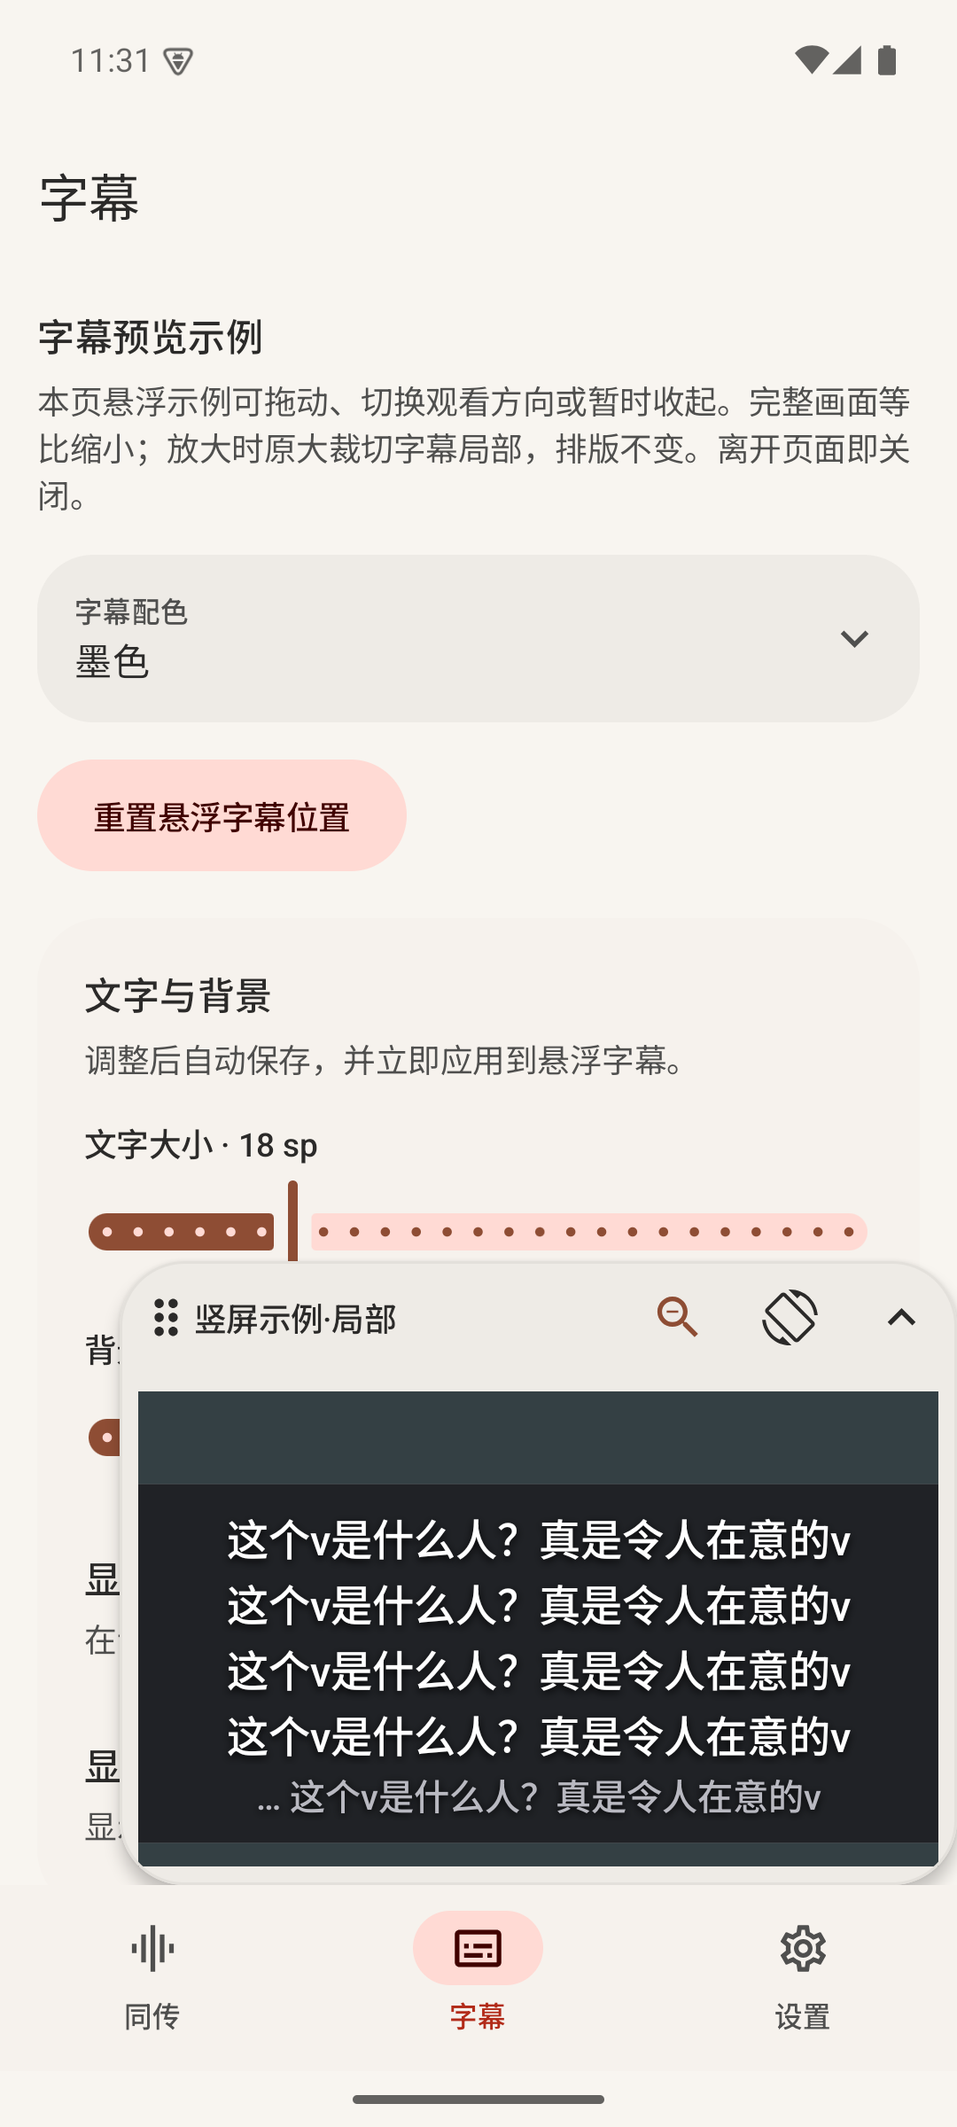
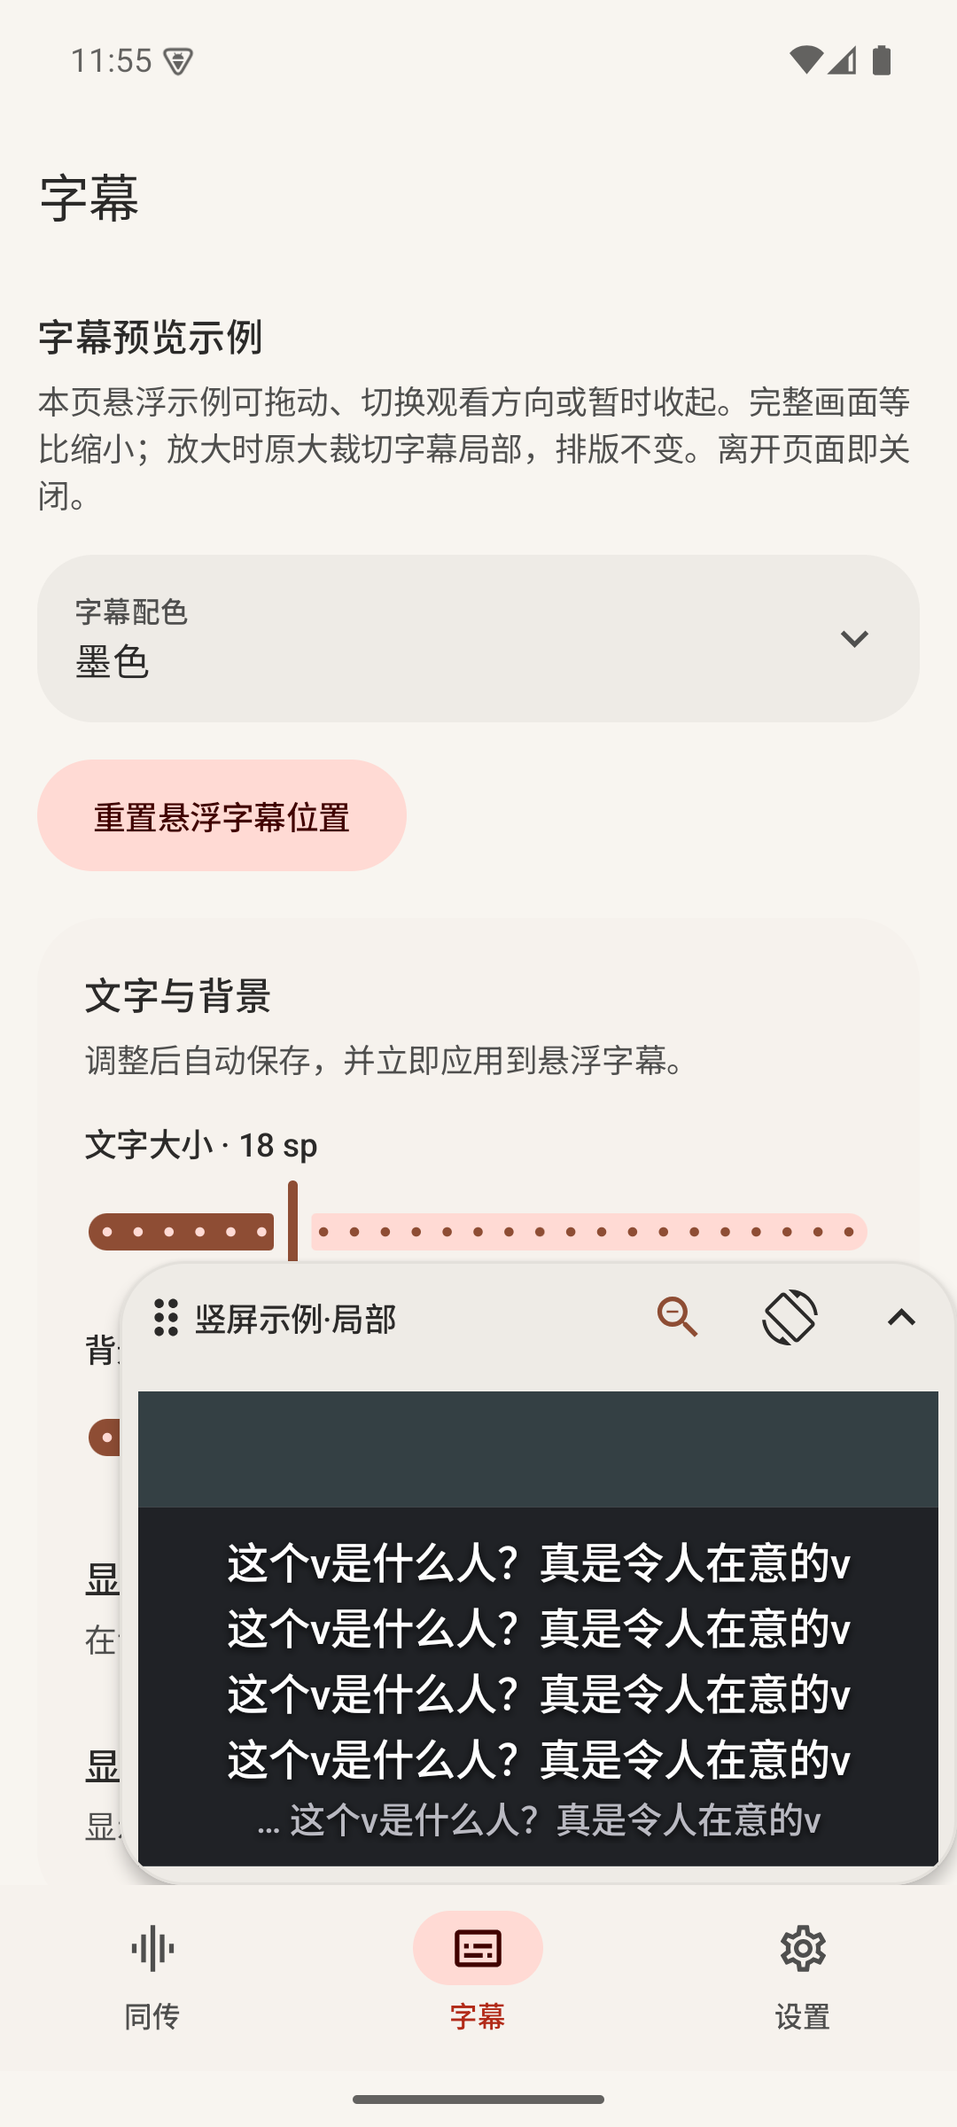
修复: 清除字幕贴底透明占位并保留基线防抖

Changed region(s): [[0.1528, 0.6875, 0.9778, 0.875], [0.8861, 0.0, 0.9167, 0.0312], [0.1222, 0.0, 0.1528, 0.0312]]

diff --git a/app/src/androidTest/java/io/github/korenkrita/simulsub/CaptionDraftSlotDeviceTest.kt b/app/src/androidTest/java/io/github/korenkrita/simulsub/CaptionDraftSlotDeviceTest.kt
@@ -17,6 +17,38 @@ import org.junit.runner.RunWith
 /** 只测真实原生布局和像素，不启动服务、不请求悬浮窗权限、不修改用户数据。 */
 @RunWith(AndroidJUnit4::class)
 class CaptionDraftSlotDeviceTest {
+    /** 拖到底时临时字幕黑底必须抵达窗口末行，不能留下参与贴边计算的透明尾部。 */
+    @Test fun draftBackgroundReachesBottomWithoutMovingFinalBaseline() = onMain {
+        for (font in listOf(13f, 36f)) for (original in listOf(false, true)) {
+            val view = overlay(original)
+            val width = px(view, 300)
+            val screenHeight = px(view, 700)
+            view.applyStyle(font, 0.8f)
+            val final = CaptionOverlayView.Line("正式字幕保持原位", null, true)
+            view.setLines(listOf(final), null)
+            layout(view, width)
+            val anchor = CaptionBaselineAnchor()
+            val top = anchor.position(screenHeight, view.finalLineBaselinePx(), screenHeight, view.measureCaptionBlockHeight(width))
+            val baseline = top + view.finalLineBaselinePx()
+            for (draft in listOf("短草稿", "更新中的临时字幕".repeat(40), "", "再出现")) {
+                view.setLines(if (draft.isEmpty()) listOf(final) else listOf(final,
+                    CaptionOverlayView.Line(draft, if (original) "仮字幕" else null, false)), null)
+                layout(view, width)
+                assertEquals("临时字幕出现消失不能移动正式末行", baseline, top + view.finalLineBaselinePx())
+                assertEquals("拖到底的窗口不能再被多余透明空间挡住", screenHeight, top + view.height)
+                val bitmap = Bitmap.createBitmap(width, view.height, Bitmap.Config.ARGB_8888)
+                view.draw(Canvas(bitmap))
+                if (draft.isNotEmpty()) {
+                    assertTrue("有临时字幕时黑底必须抵达可用区域底部：$font/$original",
+                        Color.alpha(bitmap.getPixel(width / 2, bitmap.height - 1)) > 0)
+                } else {
+                    assertEquals("草稿消失只收回背景，不移动定稿", 0,
+                        Color.alpha(bitmap.getPixel(width / 2, bitmap.height - 1)))
+                }
+            }
+        }
+    }
+
     /** 用真实TextView的最后一行基线核对宿主定位，草稿、诊断与正式内容换行都不能重设锚点。 */
     @Test fun actualFinalBaselineRemainsFixedAcrossTransientAndFinalUpdates() = onMain {
         for (fixed in listOf(false, true)) for (original in listOf(false, true)) {
@@ -165,7 +197,7 @@ class CaptionDraftSlotDeviceTest {
                     val slot = view.getChildAt(1)
                     val geometry = listOf(view.height, card.top, card.bottom, slot.top, slot.bottom)
                     if (expected == null) expected = geometry else assertEquals("草稿生命周期不应推动黑框：$landscape/$fixed/$original/$mode", expected, geometry)
-                    assertEquals(card.bottom, slot.top)
+                    assertEquals(card.bottom + (slot.layoutParams as LinearLayout.LayoutParams).topMargin, slot.top)
                     assertEquals(view.measureCardHeight(width) + view.draftSlotHeightPx(), view.height)
                     assertEquals(view.measureCaptionBlockHeight(width), view.height)
                     assertNull("草稿区不得继承正式背景", slot.background)
@@ -241,7 +273,8 @@ class CaptionDraftSlotDeviceTest {
             assertEquals("原文不再独占额外一行", 0, source.height)
             assertTrue("字号=$font，宽=$widthDp，高=${draft.height}，排版高=${draft.layout.height}，草稿=${draft.text}", draft.text.isNotEmpty() && draft.text.endsWith("尾") && ("很长的草稿。".repeat(100) + "最新结尾").endsWith(draft.text.toString()))
             assertEquals("临时字幕最多一行", 1, draft.lineCount)
-            assertTrue("临时字幕须贴近正文，不能叠加底部留白", slot.translationY < 0)
+            assertTrue("临时字幕共用正文留白，不能留下透明尾部", (slot.layoutParams as LinearLayout.LayoutParams).topMargin < 0)
+            assertEquals(0f, slot.translationY)
             assertTrue("草稿必须整行容纳在透明区域内", draft.layout.height <= draft.height)
             assertTrue(draft.bottom <= slot.height)
             assertEquals(View.VISIBLE, draft.visibility)
@@ -265,7 +298,7 @@ class CaptionDraftSlotDeviceTest {
             assertEquals(card.left, slot.left)
             assertEquals(card.right, slot.right)
             assertEquals(cardWidth, slot.width)
-            assertEquals(card.bottom, slot.top)
+            assertEquals(card.bottom + (slot.layoutParams as LinearLayout.LayoutParams).topMargin, slot.top)
             if (above) assertTrue(toolbar.bottom <= card.top) else assertTrue(toolbar.top >= slot.bottom)
             assertEquals(view.measureCaptionBlockHeight(cardWidth) + view.toolbarHeightPx(), view.height)
         }

diff --git a/app/src/androidTest/java/io/github/korenkrita/simulsub/CaptionWindowAnchorDeviceTest.kt b/app/src/androidTest/java/io/github/korenkrita/simulsub/CaptionWindowAnchorDeviceTest.kt
@@ -17,6 +17,30 @@ import java.util.concurrent.CopyOnWriteArrayList
 
 /** 使用真实系统悬浮窗口逐帧核对基线；不启动录音、不调用翻译、不改变业务配置。 */
 class CaptionWindowAnchorDeviceTest {
+    /** 真实前台窗口隐藏系统栏后，字幕也必须到屏幕底部，且草稿与工具栏不能恢复抖动。 */
+    @Test fun immersiveOverlayReachesScreenBottomWithoutJitter() {
+        val context = InstrumentationRegistry.getInstrumentation().targetContext
+        val wm = context.getSystemService(WindowManager::class.java)
+        androidx.test.core.app.ActivityScenario.launch(androidx.activity.ComponentActivity::class.java).use { scenario ->
+            try {
+                scenario.onActivity { activity ->
+                    activity.window.decorView.setBackgroundColor(0xFF2D3436.toInt())
+                    activity.window.insetsController!!.hide(android.view.WindowInsets.Type.systemBars())
+                }
+                val end = System.currentTimeMillis() + 5_000
+                while (wm.currentWindowMetrics.windowInsets.isVisible(android.view.WindowInsets.Type.systemBars())) {
+                    assertTrue("前台测试窗口必须实际进入沉浸模式", System.currentTimeMillis() < end)
+                    Thread.sleep(16)
+                }
+                assertEquals("隐藏系统栏后可用区域必须抵达物理屏幕底边",
+                    wm.currentWindowMetrics.bounds.bottom, captionWindowArea(wm.currentWindowMetrics).bottom)
+                realBottomOverlayNeverDrawsShiftedFinalBaseline()
+            } finally {
+                scenario.onActivity { it.window.insetsController!!.show(android.view.WindowInsets.Type.systemBars()) }
+            }
+        }
+    }
+
     /** 底部放置后只更新字幕，生产绘制守卫必须在每一帧保持正式最后一行不动。 */
     @Test fun realBottomOverlayNeverDrawsShiftedFinalBaseline() {
         val instrumentation = InstrumentationRegistry.getInstrumentation()
@@ -52,10 +76,9 @@ class CaptionWindowAnchorDeviceTest {
         try {
             instrumentation.runOnMainSync {
                 val metrics = wm.currentWindowMetrics
-                val insets = metrics.windowInsets.getInsetsIgnoringVisibility(
-                    android.view.WindowInsets.Type.systemBars() or android.view.WindowInsets.Type.displayCutout())
-                availableHeight = metrics.bounds.height() - insets.top - insets.bottom
-                areaTop = metrics.bounds.top + insets.top
+                val area = captionWindowArea(metrics)
+                availableHeight = area.height()
+                areaTop = area.top
                 cardWidth = (metrics.bounds.width() * 0.85f).toInt()
                 origin = CaptionWindowOrigin(areaTop)
                 view = CaptionOverlayView(context, true).apply {
@@ -116,6 +139,15 @@ class CaptionWindowAnchorDeviceTest {
                 awaitFrame(frames, index + 1)
                 Thread.sleep(80)
                 assertTrue("底部悬浮窗出现偏移帧：${frames.toList()}；详情：$details", frames.all { it.second == expected })
+                if (index in listOf(0, 1)) instrumentation.runOnMainSync {
+                    view.getLocationOnScreen(screenLocation)
+                    assertEquals("有草稿时字幕窗口必须真正贴到可用区域底部", areaTop + availableHeight,
+                        screenLocation[1] + view.height)
+                    val bitmap = Bitmap.createBitmap(view.width, view.height, Bitmap.Config.ARGB_8888)
+                    view.draw(android.graphics.Canvas(bitmap))
+                    assertTrue("系统浮窗底部不能留下透明尾部",
+                        android.graphics.Color.alpha(bitmap.getPixel(bitmap.width / 2, bitmap.height - 1)) > 0)
+                }
                 if (index in listOf(0, 1, 2)) {
                     val file = File(context.getExternalFilesDir(null), "qa-first-release-fixes/window-$index.png")
                     file.parentFile!!.mkdirs()

diff --git a/app/src/main/java/io/github/korenkrita/simulsub/CaptionOverlayView.kt b/app/src/main/java/io/github/korenkrita/simulsub/CaptionOverlayView.kt
@@ -119,8 +119,11 @@ class CaptionOverlayView(ctx: Context, private val interactive: Boolean) : Linea
         setLines(lastLines, lastStats)
     }
 
-    /** 窗口固定预留的草稿高度，空闲时不绘制背景，不计工具栏。 */
-    fun draftSlotHeightPx(): Int = if (draftSlotEnabled) draftSlot.layoutParams.height else 0
+    /** 草稿对窗口增加的固定高度，扣除与正文底部共用的留白，不计工具栏。 */
+    fun draftSlotHeightPx(): Int = if (draftSlotEnabled) {
+        val params = draftSlot.layoutParams as LayoutParams
+        (params.height + params.topMargin + params.bottomMargin).coerceAtLeast(0)
+    } else 0
 
     /** 返回正文与草稿预留的固定总高度，供窗口贴屏和工具栏避让使用。 */
     fun measureCaptionBlockHeight(widthPx: Int): Int = measureCardHeight(widthPx) + draftSlotHeightPx()
@@ -180,11 +183,9 @@ class CaptionOverlayView(ctx: Context, private val interactive: Boolean) : Linea
 
     /** 统一绘制正文和草稿的圆角背景；只有背景向下伸展，布局和定稿不随草稿改变。 */
     override fun dispatchDraw(canvas: Canvas) {
-        val extension = if (draftSlotEnabled && draftText.visibility == VISIBLE) {
-            val textHeight = minOf(draftText.layout?.height ?: draftText.lineHeight, draftText.height)
-            (draftSlot.translationY.toInt() + draftText.top + textHeight + draftSlot.paddingBottom).coerceIn(0, draftSlot.height)
-        } else 0
-        bg.setBounds(card.left, card.top, card.right, if (extension > 0) draftSlot.top + extension else card.bottom)
+        val bottom = if (draftSlotEnabled && draftText.visibility == VISIBLE)
+            maxOf(card.bottom, draftSlot.bottom) else card.bottom
+        bg.setBounds(card.left, card.top, card.right, bottom)
         bg.draw(canvas)
         super.dispatchDraw(canvas)
     }
@@ -388,8 +389,6 @@ class CaptionOverlayView(ctx: Context, private val interactive: Boolean) : Linea
             ellipsize = android.text.TextUtils.TruncateAt.END
         }
         draftSlot.apply {
-            // 与原版一样紧接正文，抵消正文已有的底部留白，避免重复间距。
-            translationY = -dp(10f)
             orientation = VERTICAL
             clipChildren = true
             setPadding(dp(18f).toInt(), dp(DRAFT_GAP_DP).toInt(), dp(18f).toInt(), dp(10f).toInt())
@@ -397,7 +396,11 @@ class CaptionOverlayView(ctx: Context, private val interactive: Boolean) : Linea
             addView(draftText, LayoutParams(LayoutParams.MATCH_PARENT, 0))
             visibility = GONE
         }
-        addView(draftSlot, LayoutParams(LayoutParams.MATCH_PARENT, 0).apply { gravity = Gravity.START })
+        addView(draftSlot, LayoutParams(LayoutParams.MATCH_PARENT, 0).apply {
+            gravity = Gravity.START
+            // 在真实布局中共用正文底部留白，不能只移动绘制位置而留下透明尾部。
+            topMargin = -dp(10f).toInt()
+        })
 
         buildToolbar()
         addView(toolbar, LayoutParams(LayoutParams.WRAP_CONTENT, LayoutParams.WRAP_CONTENT).apply { gravity = Gravity.START; topMargin = dp(TOOLBAR_GAP_DP).toInt() })

diff --git a/app/src/androidTest/java/io/github/korenkrita/simulsub/CaptionWindowAreaDeviceTest.kt b/app/src/androidTest/java/io/github/korenkrita/simulsub/CaptionWindowAreaDeviceTest.kt
@@ -1,0 +1,32 @@
+package io.github.korenkrita.simulsub
+
+import android.graphics.Insets
+import android.graphics.Rect
+import android.view.WindowInsets
+import android.view.WindowMetrics
+import androidx.test.filters.SdkSuppress
+import org.junit.Assert.assertEquals
+import org.junit.Test
+
+/** 系统隐藏导航栏后，其历史尺寸不能继续挡住字幕贴底。 */
+@SdkSuppress(minSdkVersion = 30)
+class CaptionWindowAreaDeviceTest {
+    /** 显示中的状态栏和导航栏正常避让，保留窗口在屏幕中的偏移。 */
+    @Test fun visibleBarsKeepTheirSafeArea() {
+        val insets = WindowInsets.Builder()
+            .setInsets(WindowInsets.Type.statusBars(), Insets.of(0, 60, 0, 0))
+            .setInsets(WindowInsets.Type.navigationBars(), Insets.of(0, 0, 0, 120))
+            .setInsetsIgnoringVisibility(WindowInsets.Type.systemBars(), Insets.of(0, 60, 0, 120))
+            .setVisible(WindowInsets.Type.systemBars(), true).build()
+        assertEquals(Rect(10, 80, 1090, 2300), captionWindowArea(WindowMetrics(Rect(10, 20, 1090, 2420), insets)))
+    }
+
+    /** 全屏下实际边距归零，即使系统记得导航栏原高度也必须允许到屏幕底部。 */
+    @Test fun hiddenBarsDoNotLeaveAnInvisibleBottomGap() {
+        val insets = WindowInsets.Builder()
+            .setInsets(WindowInsets.Type.systemBars(), Insets.NONE)
+            .setInsetsIgnoringVisibility(WindowInsets.Type.systemBars(), Insets.of(0, 60, 0, 120))
+            .setVisible(WindowInsets.Type.systemBars(), false).build()
+        assertEquals(Rect(0, 0, 1080, 2400), captionWindowArea(WindowMetrics(Rect(0, 0, 1080, 2400), insets)))
+    }
+}

diff --git a/app/src/main/java/io/github/korenkrita/simulsub/ui/FloatingSubtitlePreview.kt b/app/src/main/java/io/github/korenkrita/simulsub/ui/FloatingSubtitlePreview.kt
@@ -130,9 +130,8 @@ internal fun FloatingSubtitlePreview(style: SubtitleStyleUiState, finalOnly: Boo
 private fun subtitleWatchingArea(context: Context): IntSize {
     if (android.os.Build.VERSION.SDK_INT >= 30) {
         val metrics = context.getSystemService(android.view.WindowManager::class.java).currentWindowMetrics
-        val insets = metrics.windowInsets.getInsetsIgnoringVisibility(android.view.WindowInsets.Type.systemBars() or android.view.WindowInsets.Type.displayCutout())
-        return IntSize((metrics.bounds.width() - insets.left - insets.right).coerceAtLeast(1),
-            (metrics.bounds.height() - insets.top - insets.bottom).coerceAtLeast(1))
+        val area = io.github.korenkrita.simulsub.captionWindowArea(metrics)
+        return IntSize(area.width().coerceAtLeast(1), area.height().coerceAtLeast(1))
     }
     val metrics = context.resources.displayMetrics
     return IntSize(metrics.widthPixels.coerceAtLeast(1), metrics.heightPixels.coerceAtLeast(1))

diff --git a/app/src/main/java/io/github/korenkrita/simulsub/CaptionService.kt b/app/src/main/java/io/github/korenkrita/simulsub/CaptionService.kt
@@ -615,9 +615,7 @@ class CaptionService : Service() {
         // used: the overlay's x/y are already relative to that area (its parent frame excludes the bars).
         fun area(): android.graphics.Rect {
             if (android.os.Build.VERSION.SDK_INT < 30) return android.graphics.Rect(0, 0, dm.widthPixels, dm.heightPixels)
-            val m = wm.currentWindowMetrics
-            val i = m.windowInsets.getInsetsIgnoringVisibility(android.view.WindowInsets.Type.systemBars() or android.view.WindowInsets.Type.displayCutout())
-            return android.graphics.Rect(m.bounds.left + i.left, m.bounds.top + i.top, m.bounds.right - i.right, m.bounds.bottom - i.bottom)
+            return captionWindowArea(wm.currentWindowMetrics)
         }
         var cardW = (area().width() * prefs.widthFrac).toInt()
         var toolbarShown = false

diff --git a/app/src/androidTest/java/io/github/korenkrita/simulsub/FloatingSubtitlePreviewDeviceTest.kt b/app/src/androidTest/java/io/github/korenkrita/simulsub/FloatingSubtitlePreviewDeviceTest.kt
@@ -139,7 +139,7 @@ class FloatingSubtitlePreviewDeviceTest {
             cardHeight = view.measureCardHeight(view.width)
             assertTrue(slotHeight > 0)
             assertEquals(cardHeight + slotHeight, view.height)
-            assertEquals(view.getChildAt(0).bottom, view.getChildAt(1).top)
+            assertEquals(view.getChildAt(0).bottom + (view.getChildAt(1).layoutParams as LinearLayout.LayoutParams).topMargin, view.getChildAt(1).top)
             assertNull(view.getChildAt(1).background)
             assertFalse("草稿不得混入正式正文", caption(stage).text.contains("… "))
             assertTrue(draftSource(stage).text.contains("このV何者気になるV、他とは違うVだから"))

diff --git a/app/src/main/java/io/github/korenkrita/simulsub/CaptionWindowArea.kt b/app/src/main/java/io/github/korenkrita/simulsub/CaptionWindowArea.kt
@@ -1,0 +1,15 @@
+package io.github.korenkrita.simulsub
+
+import android.graphics.Rect
+import android.view.WindowInsets
+import android.view.WindowMetrics
+import androidx.annotation.RequiresApi
+
+/** 只避让实际可见的系统栏与显示缺口；全屏视频隐藏导航栏后可使用原本被占用的底部。 */
+@RequiresApi(30)
+internal fun captionWindowArea(metrics: WindowMetrics): Rect {
+    val insets = metrics.windowInsets.getInsets(WindowInsets.Type.systemBars() or WindowInsets.Type.displayCutout())
+    val bounds = metrics.bounds
+    return Rect(bounds.left + insets.left, bounds.top + insets.top,
+        bounds.right - insets.right, bounds.bottom - insets.bottom)
+}

diff --git a/docs/ANDROID_QA.md b/docs/ANDROID_QA.md
@@ -1,5 +1,14 @@
 # Android 改造验收记录
 
+## 羽译1.5.1字幕贴底修复（2026-10-15）
+
+- 原版复验已证明：临时字幕向上平移后遗留透明布局尾部，拖动按整个窗口限制，黑框因此到不了底边。新增像素回归先在原实现失败，日志`.qa/bottom-docking/red-device.log`。
+- 将正文与草稿共用留白计入真实布局，固定窗口预算、背景底边和拖动边界一致；草稿出现时背景抵达窗口底边，消失时只收回背景，正式末行锚点不变。仍最多一行、原文可合并显示、工具栏独立。
+- 可用区域改为实际可见系统栏与显示缺口，服务和设置预览共用；真实前台测试Activity隐藏系统栏后运行系统浮窗测试，物理底边和所有正式基线均符合断言。
+- 手机竖屏34项通过（含原生像素、真实WindowManager、沉浸全屏、预览与高度裁剪）；横屏2400×1080/420dpi和平板2560×1600/240dpi各14项通过。批次含重复，不能相加宣称独特用例数。测试结束恢复手机原尺寸和密度。
+- 核心236项、应用64项单元测试及Debug、Release、Lint通过。没有削弱旧防抖断言；旧预览测试直接比较未重叠卡片位置，已改为校验真实负边距后的相邻位置。
+- 本轮后续继续集成上游新增功能，仍不创建Release；最终APK信息见后续交付记录。
+
 ## 首发前修复与防抖复验（2026-10-15）
 
 本节是首发前最新行为，后文为历史验收记录；旧的「草稿在黑框外」「草稿计入句数」已由本轮要求替代。

diff --git a/docs/IMPLEMENTATION_PLAN.md b/docs/IMPLEMENTATION_PLAN.md
@@ -1,5 +1,14 @@
 # 安卓同传字幕改造：目标与持续进度
 
+## 羽译1.5.1实测修复：字幕贴底
+
+- [x] 复现临时字幕已有内容时仍无法贴底：只向上移动草稿绘制，却遗留透明布局尾部。
+- [x] 草稿与正文共用的留白改为真实布局重叠；窗口测量、拖动边界与背景底边一致。
+- [x] 保留最后正式字幕基线、固定草稿预算和一行限制，工具栏仍为独立浮层。
+- [x] 全屏隐藏系统栏后按实际可见边距计算空间，字幕服务与预览共用规则。
+- [x] 手机34项、横屏和平板各14项通过，保留逐帧防抖断言；Debug、Release及Lint通过。
+- 后续按用户追加要求集成上游功能，再交付新的测试APK并提交推送；不发布Release。
+
 ## 首发前最新修复（用户打断发布后追加）
 
 - [x] 首次权限页固定提供录音／悬浮窗授权入口，不把空快照当作已授权；首页缺失权限置顶并使用加深主题卡片。
